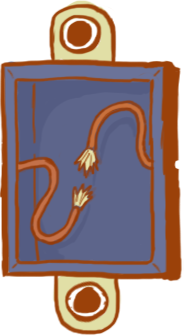
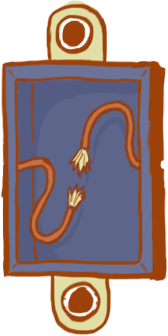
change caixa on drop adesivo

diff --git a/Assets/Script/Models/Droppable.cs b/Assets/Script/Models/Droppable.cs
@@ -3,12 +3,12 @@ using System.Collections;
 
 public class Droppable : MonoBehaviour {
 
+	public Sprite sprite;
 
 	public Item[] accepts;
 
 	public bool destroysSelfWhenAccepted= false;
-
-
+	
 	// Checks if this droppable accepts
 	// the item dragged to it
 	public bool checkAccept(Item droppedItem)
@@ -29,6 +29,9 @@ public class Droppable : MonoBehaviour {
 							GameObject.Destroy (GameObject.Find("Tampa"));
 						}
 					}
+				}else if(gameObject.name == "Caixa"){
+					SpriteRenderer spriteCaixa = gameObject.gameObject.GetComponent<SpriteRenderer>();
+					spriteCaixa.sprite = sprite;
 				}
 
 				return true;
